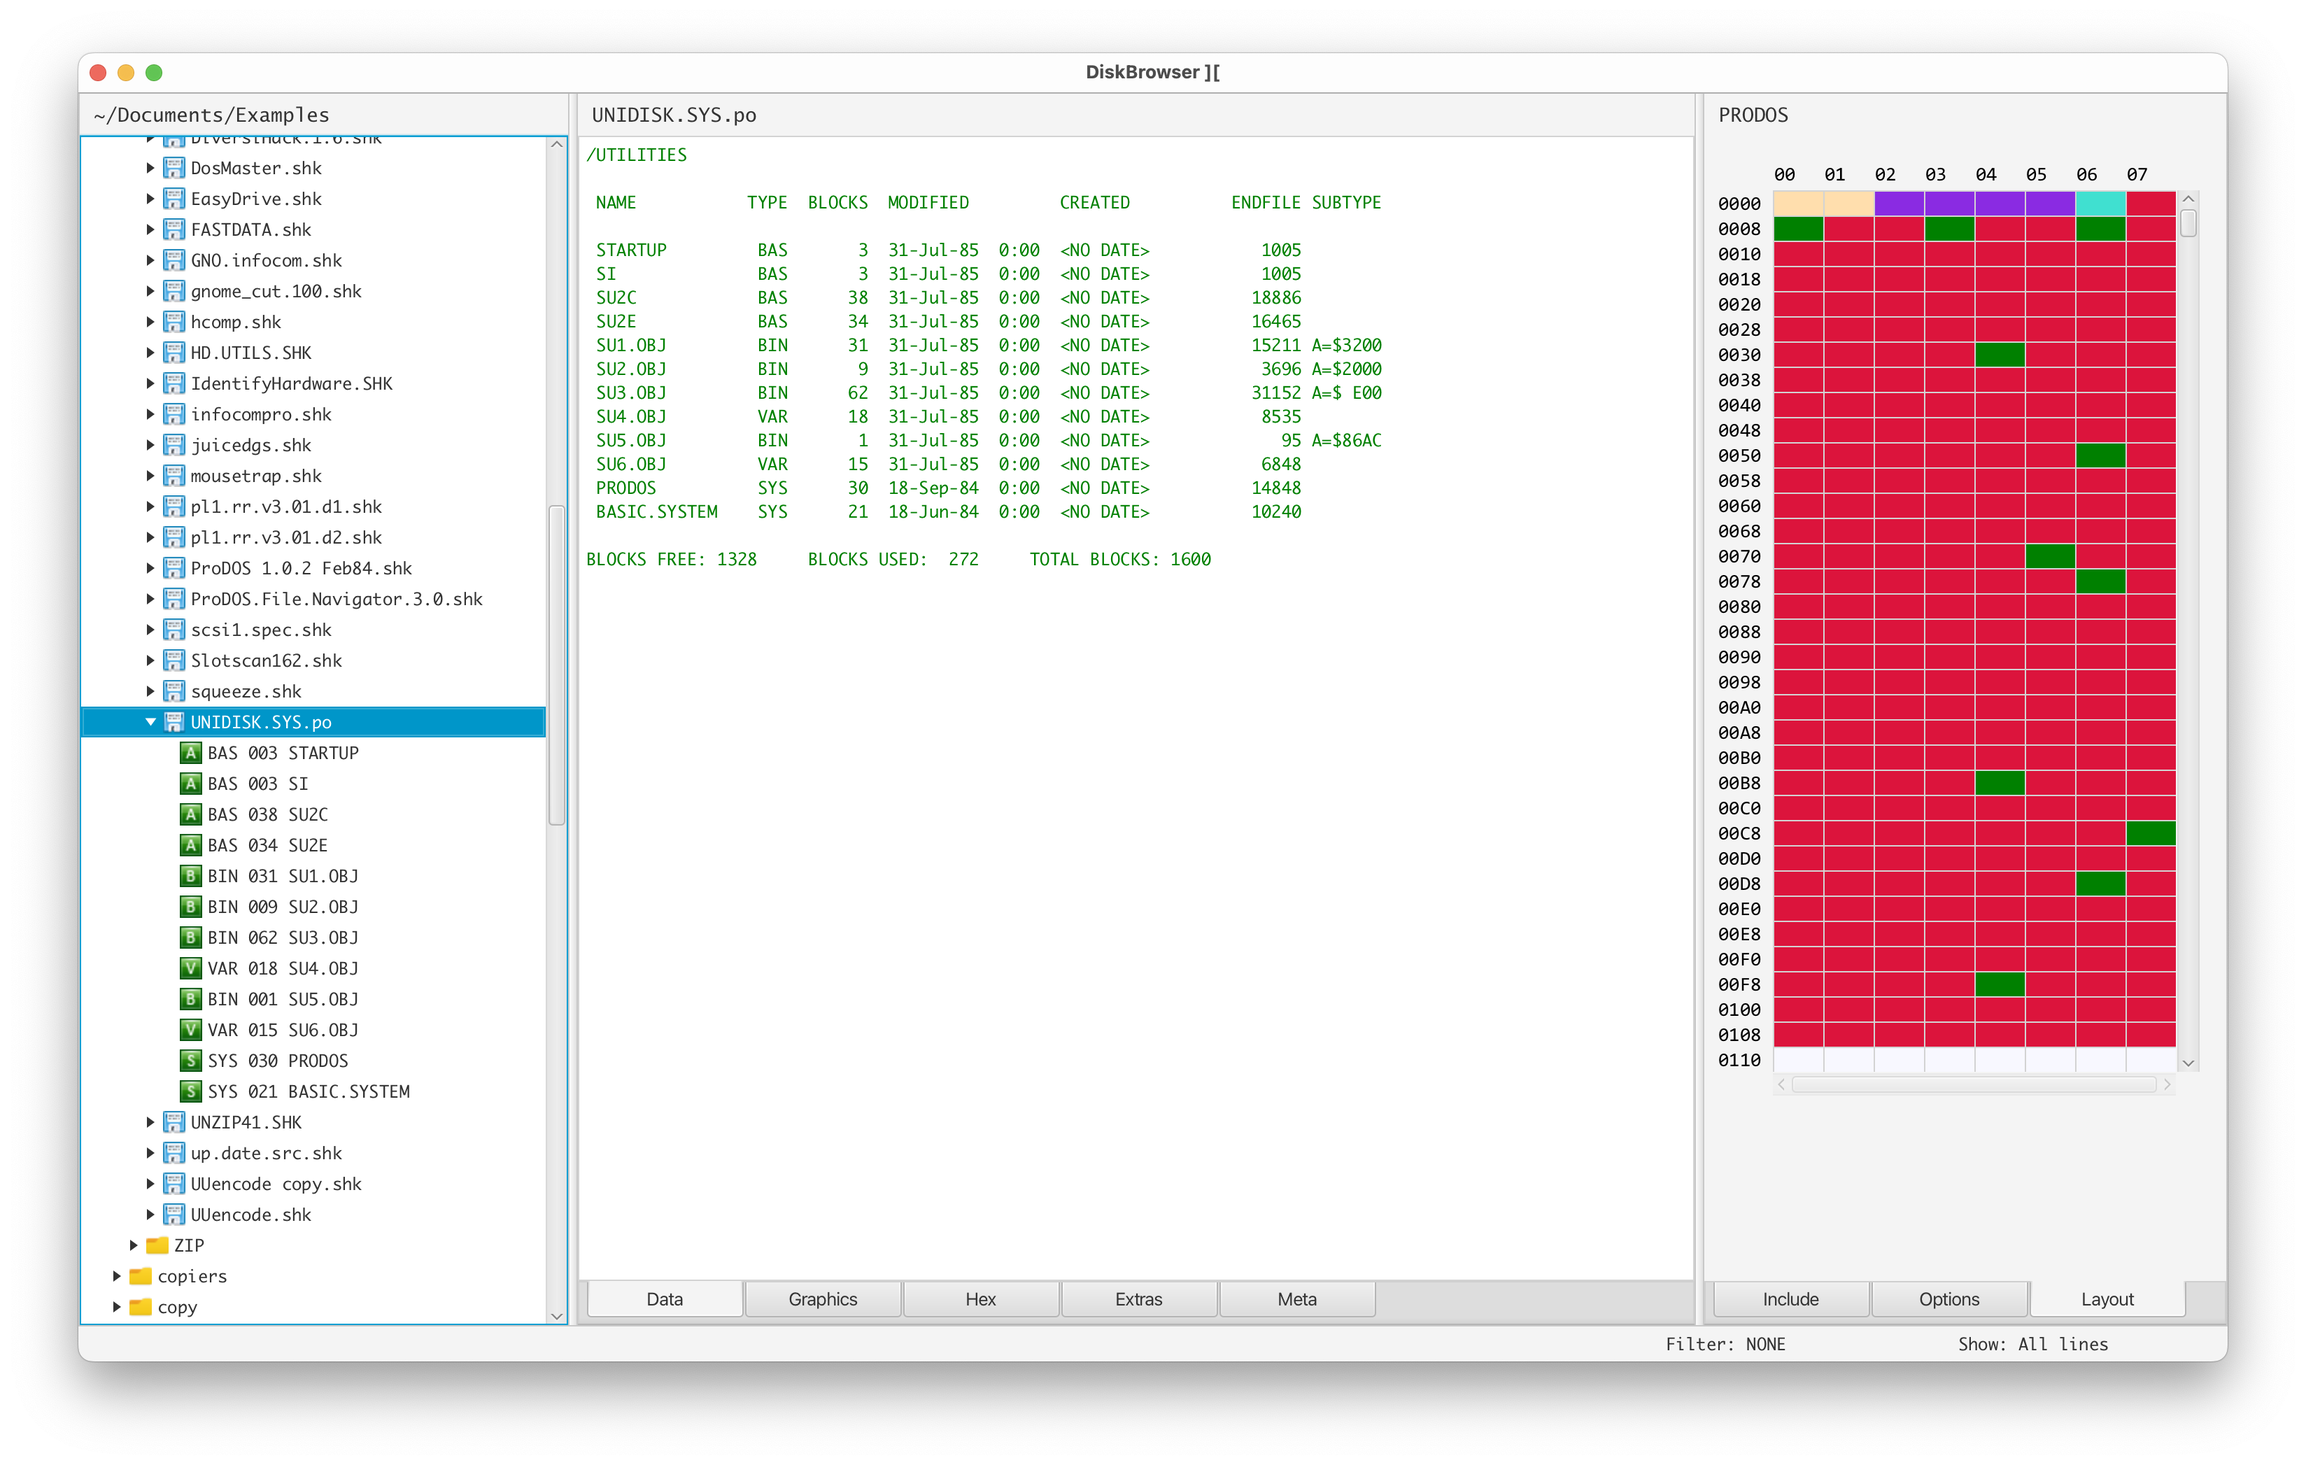
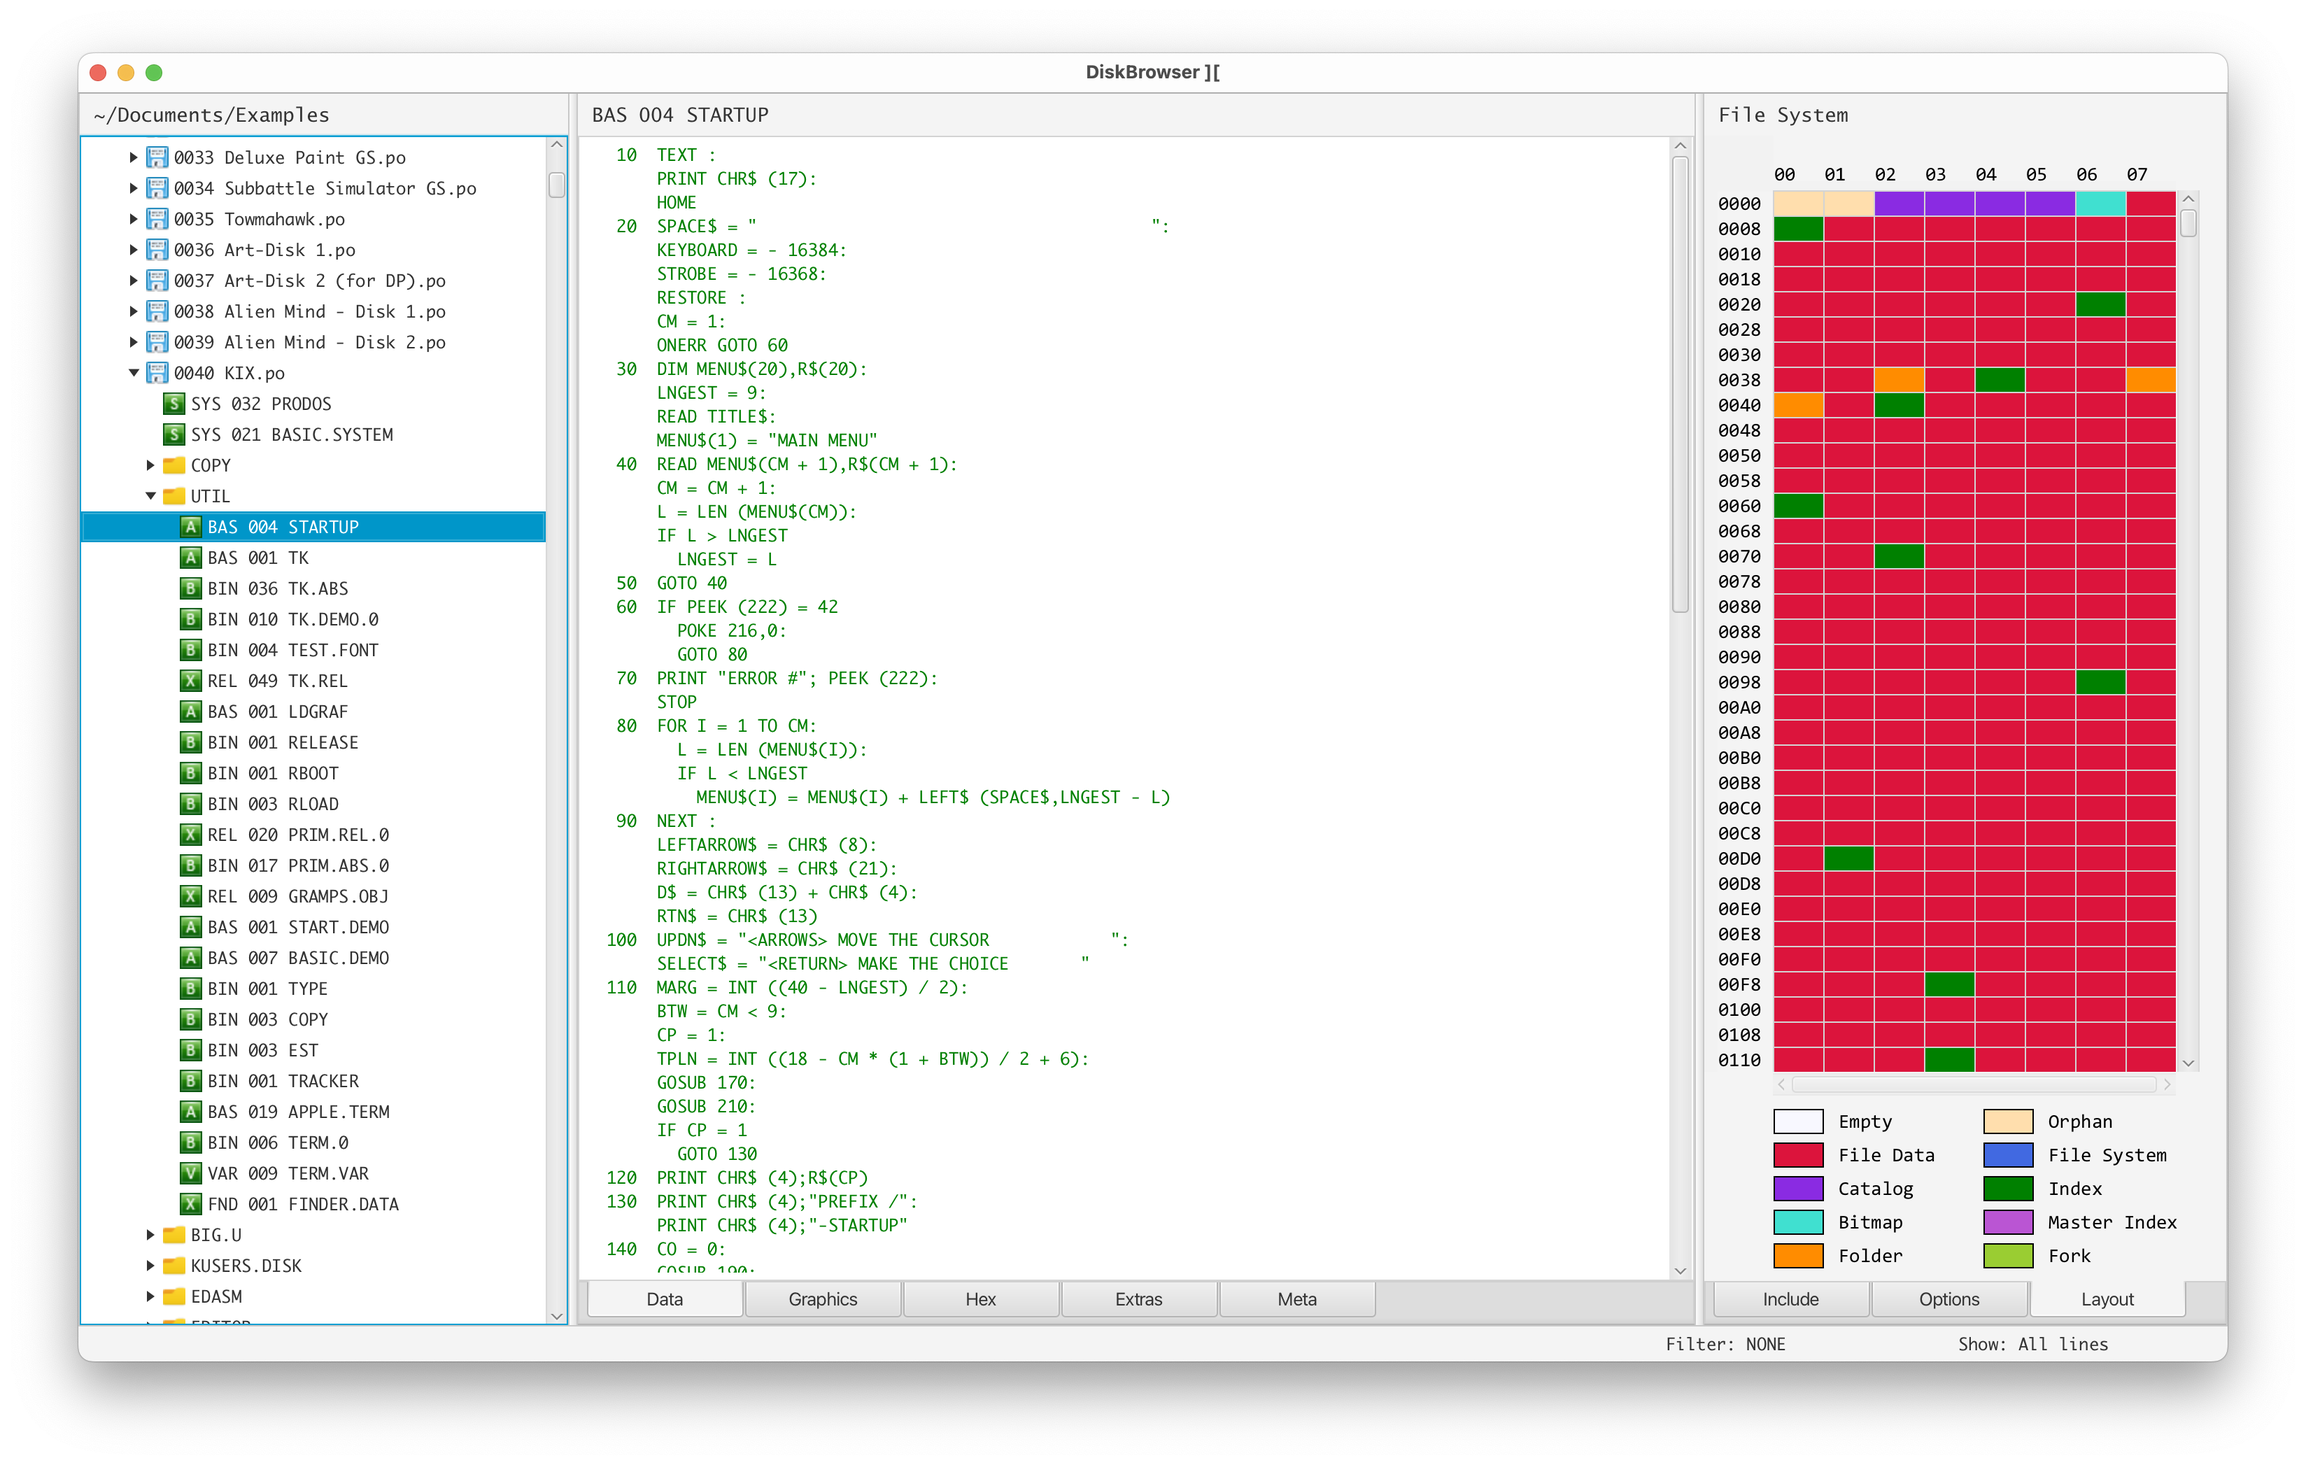
initial key pane

diff --git a/src/com/bytezone/diskbrowser2/gui/DiskLayoutGroup.java b/src/com/bytezone/diskbrowser2/gui/DiskLayoutGroup.java
@@ -22,7 +22,6 @@ import javafx.scene.input.MouseEvent;
 import javafx.scene.input.ScrollEvent;
 import javafx.scene.paint.Color;
 import javafx.scene.text.Font;
-import javafx.stage.Stage;
 
 // -----------------------------------------------------------------------------------//
 public class DiskLayoutGroup extends Group
@@ -44,36 +43,37 @@ public class DiskLayoutGroup extends Group
   private static final String ROW_FORMAT = "%04X";
   private static final String COLUMN_FORMAT = "%02X";
 
-  ScrollBar scrollBarV = new ScrollBar ();
-  ScrollBar scrollBarH = new ScrollBar ();
+  private final ScrollBar scrollBarV = new ScrollBar ();
+  private final ScrollBar scrollBarH = new ScrollBar ();
 
-  int scrollBarValueV;
-  int scrollBarValueH;
-  boolean adjusting;
+  private int scrollBarValueV;
+  private int scrollBarValueH;
+  private boolean adjusting;
 
-  Stage stage;
-  GraphicsContext gc;
-  Canvas canvas;
+  private GraphicsContext gc;
+  private Canvas canvas;
 
-  int diskRows;
-  int diskColumns;
-  int diskBlockUnits;       // will be 1, 2, 4 or 8
+  private int diskRows;
+  private int diskColumns;
+  private int diskBlockUnits;       // will be 1, 2, 4 or 8
 
-  int screenColumns;        // 32 / diskBlockUnits
-  int blockWidth;
+  private int screenColumns;        // 32 / diskBlockUnits
+  private int blockWidth;
 
-  ScreenCell[][] screen;    // visible blocks
-  String[] fileNames;
+  private ScreenCell[][] screen;    // visible blocks
 
-  int firstRow = -1;
-  int firstColumn = -1;
-  int selectedBlockNo = -1;
-  int currentDiskNo = -1;
-  List<AppleBlock> selectedBlocks;
+  private int firstRow = -1;
+  private int firstColumn = -1;
+  private int selectedBlockNo = -1;
+  private List<AppleBlock> selectedBlocks;
 
-  AppleFileSystem fs;
-  List<GridClickListener> listeners = new ArrayList<> ();
-  FormattedAppleBlockFactory formattedAppleBlockFactory;
+  private AppleFileSystem fileSystem;
+  private List<GridClickListener> listeners = new ArrayList<> ();
+  private FormattedAppleBlockFactory formattedAppleBlockFactory;
+
+  private Color clear = new Color (.95, .95, .95, 1);
+
+  private Font font = Font.font ("Consolas", 14);
 
   // ---------------------------------------------------------------------------------//
   public DiskLayoutGroup ()
@@ -83,11 +83,12 @@ public class DiskLayoutGroup extends Group
     double canvasHeight = Y_OFFSET + GRID_HEIGHT + GRID_PADDING;
 
     canvas = new Canvas (canvasWidth, canvasHeight);
+    //    canvas.setFocusTraversable (true);
 
     gc = canvas.getGraphicsContext2D ();
-    gc.setFont (Font.font ("Consolas", 14));
+    gc.setFont (font);
 
-    setScrollBars (canvas);
+    setScrollBars ();
 
     getChildren ().addAll (scrollBarV, scrollBarH, canvas);
   }
@@ -106,16 +107,17 @@ public class DiskLayoutGroup extends Group
     if (appleFileSystem == null)
     {
       //      System.out.println ("Null FS in DiskLayoutGroup");
-      //      clear ();
+      clear ();
       return;
     }
 
     firstRow = -1;
     firstColumn = -1;
-    selectedBlockNo = -1;
 
-    fs = appleFileSystem;
-    //    System.out.println (fs);
+    selectedBlockNo = -1;
+    selectedBlocks = null;
+
+    fileSystem = appleFileSystem;
 
     buildScreen (appleFileSystem, gc);
     drawGrid ();
@@ -160,7 +162,7 @@ public class DiskLayoutGroup extends Group
       redrawRowHeader = true;
     }
 
-    int totalDiskBlocks = fs.getTotalBlocks ();
+    int totalDiskBlocks = fileSystem.getTotalBlocks ();
     int display = 1;
 
     // draw each row
@@ -178,7 +180,7 @@ public class DiskLayoutGroup extends Group
 
         if (blockNo < totalDiskBlocks)
         {
-          AppleBlock block = fs.getBlock (blockNo);
+          AppleBlock block = fileSystem.getBlock (blockNo);
 
           Color color = getBaseColor (block);
           Color cellColor =                                           //
@@ -254,7 +256,6 @@ public class DiskLayoutGroup extends Group
       case EMPTY -> Color.GHOSTWHITE;
       case FILE_DATA -> Color.CRIMSON;
       case FS_DATA -> Color.ROYALBLUE;
-      //      case null -> Color.BLACK;
     };
   }
 
@@ -350,7 +351,7 @@ public class DiskLayoutGroup extends Group
   }
 
   // ---------------------------------------------------------------------------------//
-  private void setScrollBars (Canvas canvas)
+  private void setScrollBars ()
   // ---------------------------------------------------------------------------------//
   {
     scrollBarV.setOrientation (Orientation.VERTICAL);
@@ -407,7 +408,8 @@ public class DiskLayoutGroup extends Group
           default -> selectedBlockNo;
         };
 
-        if (selectedBlockNo != blockNo && blockNo >= 0 && blockNo < fs.getTotalBlocks ())
+        if (selectedBlockNo != blockNo && blockNo >= 0
+            && blockNo < fileSystem.getTotalBlocks ())
         {
           notifyListeners (selectedBlockNo, blockNo);
           selectedBlockNo = blockNo;
@@ -521,7 +523,7 @@ public class DiskLayoutGroup extends Group
   void clear ()
   // ---------------------------------------------------------------------------------//
   {
-    gc.setFill (Color.WHITE);
+    gc.setFill (clear);
     gc.fillRect (0, 0, canvas.getWidth (), canvas.getHeight ());
   }
 
@@ -537,7 +539,7 @@ public class DiskLayoutGroup extends Group
   private void notifyListeners (int previousBlockNo, int selectedBlockNo)
   // ---------------------------------------------------------------------------------//
   {
-    AppleBlock appleBlock = fs.getBlock (selectedBlockNo);
+    AppleBlock appleBlock = fileSystem.getBlock (selectedBlockNo);
     if (appleBlock == null)
       return;
 

diff --git a/src/com/bytezone/diskbrowser2/gui/KeyPane.java b/src/com/bytezone/diskbrowser2/gui/KeyPane.java
@@ -1,0 +1,74 @@
+package com.bytezone.diskbrowser2.gui;
+
+import javafx.scene.canvas.Canvas;
+import javafx.scene.canvas.GraphicsContext;
+import javafx.scene.paint.Color;
+import javafx.scene.text.Font;
+
+// -----------------------------------------------------------------------------------//
+public class KeyPane extends Canvas
+// -----------------------------------------------------------------------------------//
+{
+  private static final int SIZE_H = 18;
+  private static final int SIZE_W = SIZE_H * 2;
+
+  private static final int X_OFFSET = 50;
+  private static final int Y_OFFSET = 10;
+  private static final int LINE_SIZE = 24;
+
+  // ---------------------------------------------------------------------------------//
+  public KeyPane ()
+  // ---------------------------------------------------------------------------------//
+  {
+    super (400, 200);
+
+    GraphicsContext gc = getGraphicsContext2D ();
+    gc.setFont (Font.font ("Consolas", 14));
+
+    int x = X_OFFSET;
+    int y = Y_OFFSET;
+
+    ScreenCell empty = new ScreenCell (gc, x, y, SIZE_W, SIZE_H);
+    draw (empty, Color.GHOSTWHITE, "Empty");
+
+    ScreenCell orphan = new ScreenCell (gc, x + 150, y, SIZE_W, SIZE_H);
+    draw (orphan, Color.NAVAJOWHITE, "Orphan");
+
+    y += LINE_SIZE;
+    ScreenCell fileData = new ScreenCell (gc, x, y, SIZE_W, SIZE_H);
+    draw (fileData, Color.CRIMSON, "File Data");
+
+    ScreenCell fsData = new ScreenCell (gc, x + 150, y, SIZE_W, SIZE_H);
+    draw (fsData, Color.ROYALBLUE, "File System");
+
+    y += LINE_SIZE;
+    ScreenCell catalog = new ScreenCell (gc, x, y, SIZE_W, SIZE_H);
+    draw (catalog, Color.BLUEVIOLET, "Catalog");
+
+    ScreenCell index = new ScreenCell (gc, x + 150, y, SIZE_W, SIZE_H);
+    draw (index, Color.GREEN, "Index");
+
+    y += LINE_SIZE;
+    ScreenCell bitmap = new ScreenCell (gc, x, y, SIZE_W, SIZE_H);
+    draw (bitmap, Color.TURQUOISE, "Bitmap");
+
+    ScreenCell mIndex = new ScreenCell (gc, x + 150, y, SIZE_W, SIZE_H);
+    draw (mIndex, Color.MEDIUMORCHID, "Master Index");
+
+    y += LINE_SIZE;
+    ScreenCell folder = new ScreenCell (gc, x, y, SIZE_W, SIZE_H);
+    draw (folder, Color.DARKORANGE, "Folder");
+
+    ScreenCell fork = new ScreenCell (gc, x + 150, y, SIZE_W, SIZE_H);
+    draw (fork, Color.YELLOWGREEN, "Fork");
+  }
+
+  // ---------------------------------------------------------------------------------//
+  private void draw (ScreenCell screenCell, Color color, String label)
+  // ---------------------------------------------------------------------------------//
+  {
+    screenCell.draw (color, false);
+    screenCell.frame ();
+    screenCell.label (label);
+  }
+}

diff --git a/src/com/bytezone/diskbrowser2/gui/ExtrasTab.java b/src/com/bytezone/diskbrowser2/gui/ExtrasTab.java
@@ -4,6 +4,7 @@ import java.util.ArrayList;
 import java.util.List;
 
 import com.bytezone.appleformat.ApplePreferences;
+import com.bytezone.appleformat.block.FormattedAppleBlock;
 import com.bytezone.appleformat.file.FormattedAppleFile;
 import com.bytezone.filesystem.AppleBlock;
 
@@ -16,11 +17,13 @@ public class ExtrasTab extends DBTextTab implements PreferenceChangeListener
   private static final int MAX_LINES = 2500;
 
   private FormattedAppleFile formattedAppleFile;
+  private FormattedAppleBlock formattedAppleBlock;
   //  private AppleTreeItem appleTreeItem;
-  private AppleTreeFile appleTreeFile;
+  //  private AppleTreeFile appleTreeFile;
   //  private AppleFile appleFile;
   //  private AppleBlock appleBlock;
   //  private AppleFileSystem appleFileSystem;
+  private List<String> emptyList = new ArrayList<> ();
 
   // ---------------------------------------------------------------------------------//
   public ExtrasTab (String title, KeyCode keyCode)
@@ -34,7 +37,7 @@ public class ExtrasTab extends DBTextTab implements PreferenceChangeListener
   List<String> getLines ()
   // ---------------------------------------------------------------------------------//
   {
-    return formattedAppleFile == null ? new ArrayList<> () : getLines (MAX_LINES);
+    return formattedAppleFile == null ? emptyList : getLines (MAX_LINES);
   }
 
   // ---------------------------------------------------------------------------------//
@@ -61,9 +64,9 @@ public class ExtrasTab extends DBTextTab implements PreferenceChangeListener
   public void setAppleTreeItem (AppleTreeItem appleTreeItem)
   // ---------------------------------------------------------------------------------//
   {
-    appleTreeFile = appleTreeItem.getValue ();
+    AppleTreeFile appleTreeFile = appleTreeItem.getValue ();
     formattedAppleFile = appleTreeFile.getFormattedAppleFile ();
-    //    appleBlock = null;
+    formattedAppleBlock = null;
 
     refresh ();
   }
@@ -72,9 +75,8 @@ public class ExtrasTab extends DBTextTab implements PreferenceChangeListener
   public void setAppleBlock (AppleBlock appleBlock)
   // ---------------------------------------------------------------------------------//
   {
-    appleTreeFile = null;
-    //    this.appleBlock = appleBlock;
-    formattedAppleFile = (FormattedAppleFile) appleBlock.getUserData ();
+    formattedAppleFile = null;
+    formattedAppleBlock = (FormattedAppleBlock) appleBlock.getUserData ();
 
     refresh ();
   }

diff --git a/src/com/bytezone/diskbrowser2/gui/DiskLayoutTab.java b/src/com/bytezone/diskbrowser2/gui/DiskLayoutTab.java
@@ -4,6 +4,7 @@ import java.util.prefs.Preferences;
 
 import com.bytezone.appbase.TabBase;
 import com.bytezone.appleformat.FormattedAppleBlockFactory;
+import com.bytezone.appleformat.file.FormattedAppleFile;
 import com.bytezone.filesystem.AppleFile;
 import com.bytezone.filesystem.AppleFileSystem;
 
@@ -15,10 +16,11 @@ public class DiskLayoutTab extends TabBase //implements TreeNodeListener
 // -----------------------------------------------------------------------------------//
 {
   protected DiskLayoutGroup diskLayoutGroup = new DiskLayoutGroup ();
+  protected KeyPane keyPane = new KeyPane ();
 
-  //  protected FormattedAppleFile formattedAppleFile;
+  protected FormattedAppleFile formattedAppleFile;
   protected AppleTreeItem appleTreeItem;
-  protected AppleTreeFile treeFile;
+  protected AppleTreeFile appleTreeFile;
   protected AppleFile appleFile;
   protected AppleFileSystem appleFileSystem;
 
@@ -30,7 +32,10 @@ public class DiskLayoutTab extends TabBase //implements TreeNodeListener
 
     BorderPane borderPane = new BorderPane ();
     borderPane.setTop (diskLayoutGroup);
+    borderPane.setBottom (keyPane);
     this.setContent (borderPane);
+    //    borderPane
+    //    .setBackground (new Background (new BackgroundFill (Color.WHITE, null, null)));
   }
 
   // ---------------------------------------------------------------------------------//
@@ -46,13 +51,12 @@ public class DiskLayoutTab extends TabBase //implements TreeNodeListener
   {
     this.appleTreeItem = appleTreeItem;
 
-    treeFile = appleTreeItem.getValue ();
-    appleFile = treeFile.getAppleFile ();
-    //    formattedAppleFile = treeFile.getFormattedAppleFile ();
+    appleTreeFile = appleTreeItem.getValue ();
+    appleFile = appleTreeFile.getAppleFile ();
+    appleFileSystem = appleTreeFile.getAppleFileSystem ();
+    formattedAppleFile = appleTreeFile.getFormattedAppleFile ();
 
-    if (appleFile == null)
-      appleFileSystem = treeFile.getAppleFileSystem ();
-    else
+    if (appleFile != null)
     {
       if (appleFile.hasEmbeddedFileSystem ())
         appleFileSystem = appleFile.getEmbeddedFileSystem ();

diff --git a/src/com/bytezone/diskbrowser2/gui/ScreenCell.java b/src/com/bytezone/diskbrowser2/gui/ScreenCell.java
@@ -64,4 +64,20 @@ public class ScreenCell
     color = Color.WHITE;
     selected = false;
   }
+
+  // ---------------------------------------------------------------------------------//
+  void frame ()
+  // ---------------------------------------------------------------------------------//
+  {
+    gc.setFill (Color.BLACK);
+    gc.strokeRect (x, y, blockWidth - 1, blockHeight - 1);
+  }
+
+  // ---------------------------------------------------------------------------------//
+  void label (String text)
+  // ---------------------------------------------------------------------------------//
+  {
+    gc.setFill (Color.BLACK);
+    gc.fillText (text, x + blockWidth + 10, y + 13);
+  }
 }
